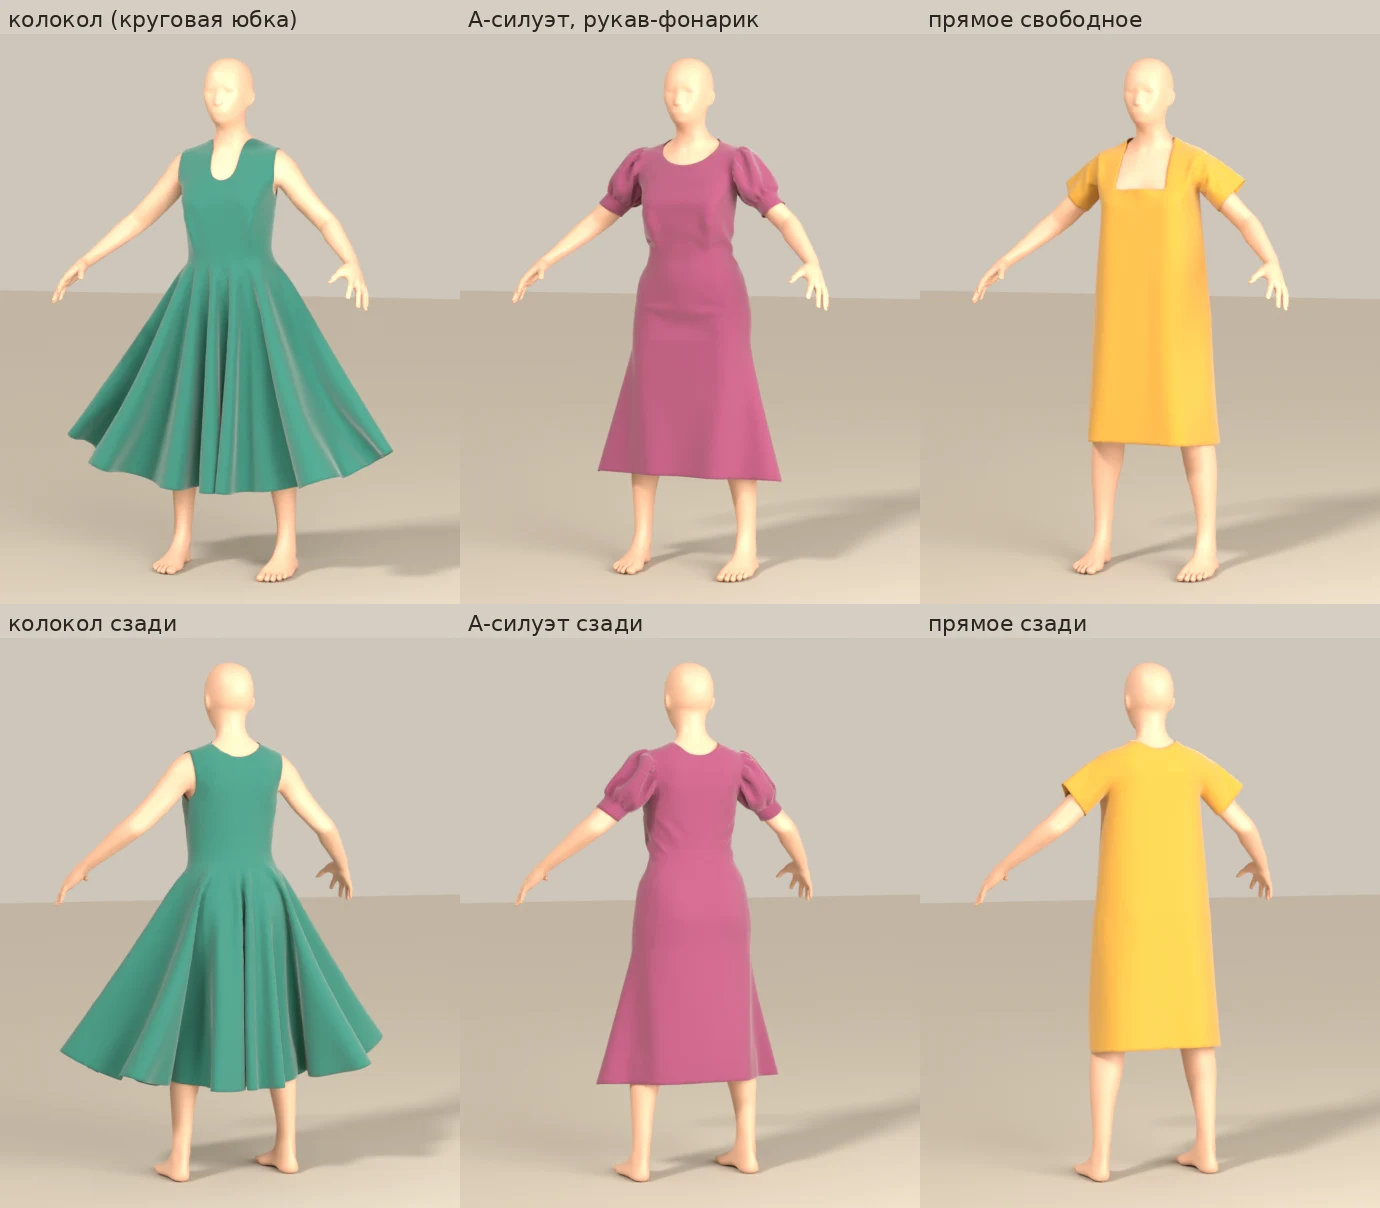
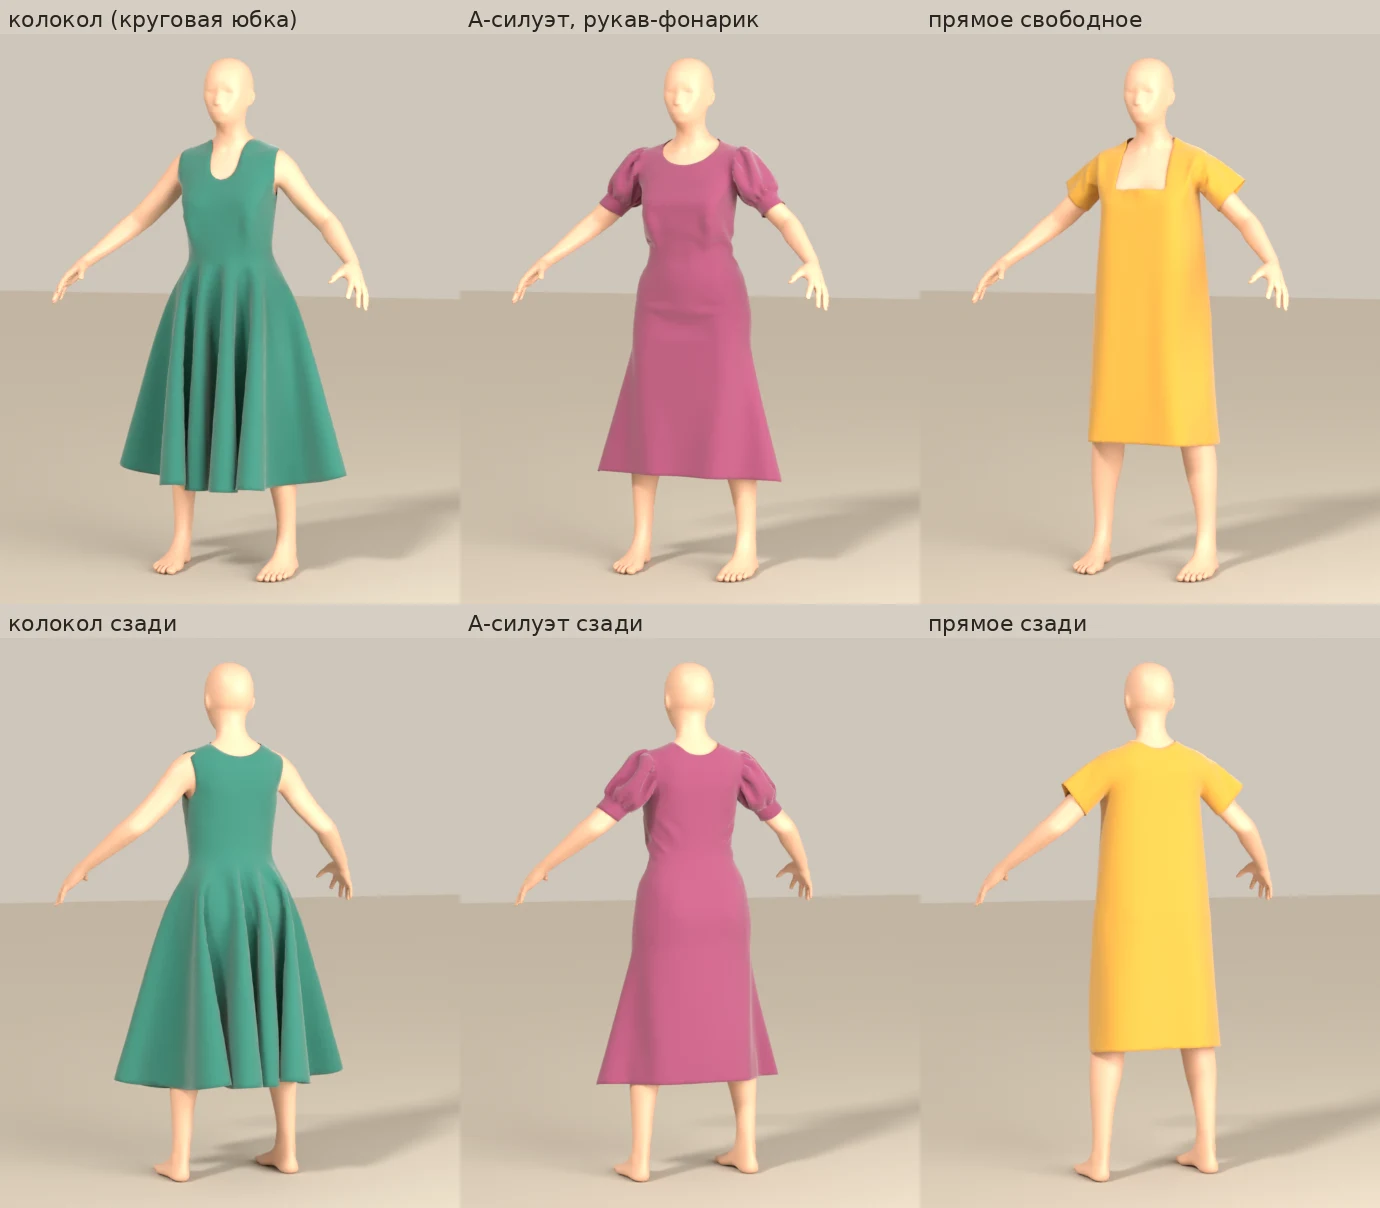
Work in progress
Claude-Session: https://claude.ai/code/session_01WT1L4WBJdxtpyR6gM4uaxn

diff --git a/tools-demo/n2-garments/tools/sheets.py b/tools-demo/n2-garments/tools/sheets.py
@@ -27,8 +27,8 @@ def pattern(name, body='moood-woman', size=(520, 380)):
 what = sys.argv[1:] or ['all']
 def want(k): return 'all' in what or k in what
 if want('dresses'):
-    sheet('dresses.webp', [(fig('dress-bell'), 'колокол (круговая юбка)'), (fig('dress-aline-puff'), 'А-силуэт, рукав-фонарик'),
-                           (fig('dress-trapeze'), 'прямое свободное'), (fig('dress-bell', 160), 'колокол сзади'),
+    sheet('dresses.webp', [(fig('dress-bell16'), 'колокол (круговая юбка)'), (fig('dress-aline-puff'), 'А-силуэт, рукав-фонарик'),
+                           (fig('dress-trapeze'), 'прямое свободное'), (fig('dress-bell16', 160), 'колокол сзади'),
                            (fig('dress-aline-puff', 160), 'А-силуэт сзади'), (fig('dress-trapeze', 160), 'прямое сзади')], 3)
 if want('everyday'):
     sheet('everyday.webp', [(fig('outfit-shirt-skirt'), 'рубашка и юбка'), (fig('outfit-shirt-pants'), 'рубашка и брюки'),

diff --git a/tools-demo/n2-garments/notes.md b/tools-demo/n2-garments/notes.md
@@ -46,10 +46,11 @@ Everything heavy is in `/home/user/cache/n2-garments/` (not in the repository).
    height 158.5, bust 82, waist 67, hips 95 cm, arms 47° down (`arm_pose_angle`).
 6. Drapes: `tools/jobs.sh` (each line a design: overrides of GarmentCode's `assets/design_params/default.yaml`,
    run through `tools/gc_run.py`, its `gui` sim settings — "mid-softness fabric"). On this shared CPU a drape takes
-   4–50 min; the bell dress at GarmentCode's resolution (27k cloth points) ran into the 50-min cap at frame 552 but
-   had settled. The rest: `RES=1.6` (coarser), except those with a short edge (cuffs, collars): at resolution > 1
+   4–50 min; the bell dress at GarmentCode's resolution (27k cloth points) ran into the 50-min cap at frame 552
+   while its skirt was still falling (it looked settled in GarmentCode's preview, but beside the same dress at 1.6 its
+   hem is visibly wider) — so the page and out/ use `dress-bell16`, the same design at 1.6. The rest: `RES=1.6` (coarser), except those with a short edge (cuffs, collars): at resolution > 1
    GarmentCode crashes on its own warning (`Edge` has no `name`) — those ran at 1.0.
-   Dropped: `var-suns15-long` (suns 1.5 to the ankles) had not settled within the 50-minute cap — still spread out
+   Dropped: `dress-bell` (above), `var-suns15-long` (suns 1.5 to the ankles) had not settled within the 50-minute cap — still spread out
    in the air; a sleeve variant of the bell (needs resolution 1.0, ~50 min). Replaced by a short full skirt and a V-neck.
 7. Pictures: `tools/render_all.sh` (Blender 4.5, Cycles CPU, 32 samples; `tools/render.py` — beige floor and
    backdrop like our clothes pictures), sheets by `tools/sheets.py`. GarmentCode's own preview renders
